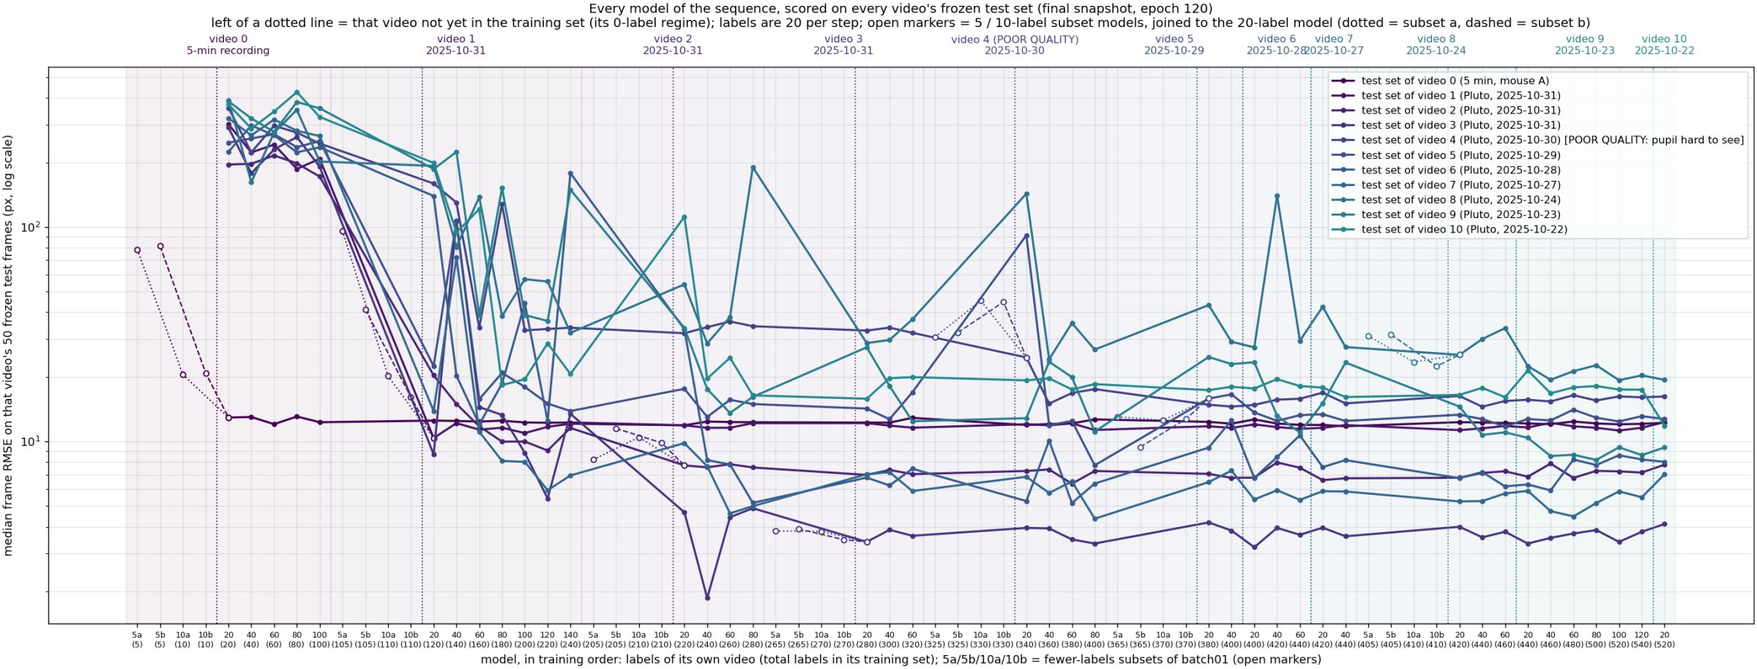
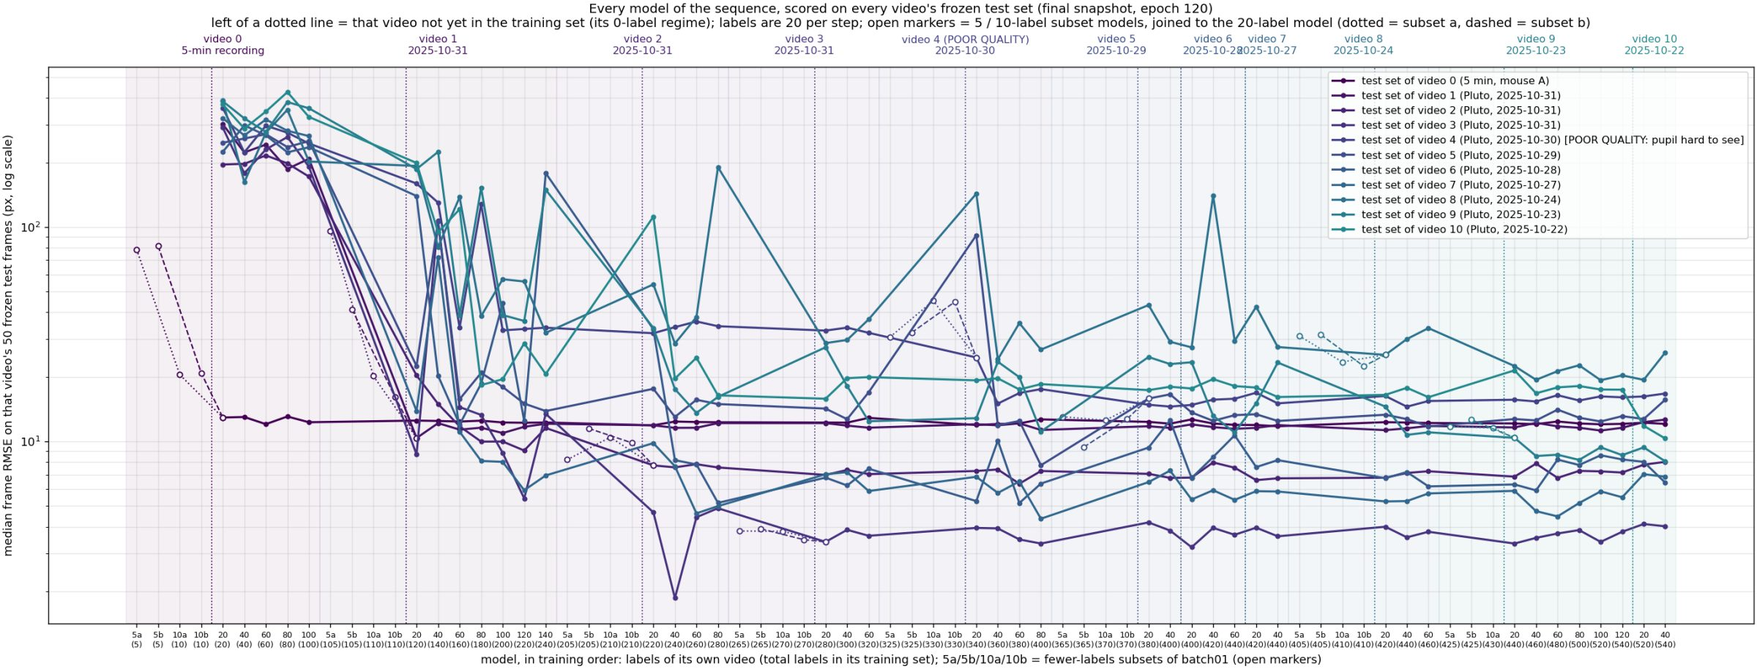
Fewer-labels study extended to video 9: 5 labels 11.7 / 12.6 px, 10 labels 11.6 / 11.1 px (0 labels 23.41, 20 labels 10.39)
Claude-Session: https://claude.ai/code/session_017MK5SWBFFQAu8ejFk1z7fh

diff --git a/report/index.html b/report/index.html
@@ -480,7 +480,7 @@ CHANGELOG.md                         one row per tag
 </div>
 
 <script>
-const DATA = {"scaling": [{"n": 20, "rmse": 38.3}, {"n": 50, "rmse": 41.9}, {"n": 100, "rmse": 55.9}], "batch": [{"batch": 2, "rmse": 21.07, "val_loss": 0.01107, "conf": 375}, {"batch": 4, "rmse": 22.28, "val_loss": 0.01112, "conf": 280}, {"batch": 8, "rmse": 23.61, "val_loss": 0.01186, "conf": 131}, {"batch": 16, "rmse": 21.37, "val_loss": 0.01136, "conf": 111}], "model": [{"model": "ResNet-50", "rmse": 20.1, "val_loss": 0.01107, "conf": 514, "hours": 1.73}, {"model": "HRNet-W32", "rmse": 21.1, "val_loss": 0.01107, "conf": 375, "hours": 3.69}, {"model": "HRNet-W48", "rmse": 24.7, "val_loss": 0.01114, "conf": 99, "hours": 6.61}, {"model": "CSPNeXt-S", "rmse": 35.4, "val_loss": 0.011, "conf": 75, "hours": 0.6}, {"model": "HRNet-W18", "rmse": 47.9, "val_loss": 0.01099, "conf": 121, "hours": 2.44}], "al": {"fitting": [{"n": 80, "rmse": 16.77}, {"n": 100, "rmse": 16.52}, {"n": 120, "rmse": 17.41}, {"n": 140, "rmse": 16.88}, {"n": 160, "rmse": 17.15}, {"n": 180, "rmse": 16.89}, {"n": 200, "rmse": 17.2}, {"n": 220, "rmse": 17.08}, {"n": 240, "rmse": 17.5}, {"n": 260, "rmse": 16.85}, {"n": 280, "rmse": 16.87}, {"n": 300, "rmse": 16.97}], "jump": [{"n": 80, "rmse": 16.77}, {"n": 100, "rmse": 16.71}, {"n": 120, "rmse": 16.25}, {"n": 140, "rmse": 15.81}, {"n": 160, "rmse": 16.5}, {"n": 180, "rmse": 16.42}, {"n": 200, "rmse": 16.33}, {"n": 220, "rmse": 15.88}, {"n": 240, "rmse": 16.41}, {"n": 260, "rmse": 17.01}, {"n": 280, "rmse": 16.5}, {"n": 300, "rmse": 16.6}], "uncertain": [{"n": 80, "rmse": 16.77}, {"n": 100, "rmse": 17.54}, {"n": 120, "rmse": 17.06}, {"n": 140, "rmse": 16.71}, {"n": 160, "rmse": 16.8}, {"n": 180, "rmse": 16.39}, {"n": 200, "rmse": 16.57}, {"n": 220, "rmse": 16.57}, {"n": 240, "rmse": 16.56}, {"n": 260, "rmse": 16.54}, {"n": 280, "rmse": 16.91}, {"n": 300, "rmse": 16.62}]}, "al_range": [15.81, 17.54], "scale": [{"n": 0, "rmse": 185.18, "p90": 249.81, "fail": 88.1, "conf": 43}, {"n": 20, "rmse": 13.83, "p90": 44.6, "fail": 10.2, "conf": 62}, {"n": 40, "rmse": 12.04, "p90": 27.58, "fail": 8.5, "conf": 70}, {"n": 60, "rmse": 10.41, "p90": 97.56, "fail": 13.6, "conf": 83}, {"n": 80, "rmse": 10.12, "p90": 28.18, "fail": 5.1, "conf": 91}, {"n": 100, "rmse": 10.72, "p90": 26.06, "fail": 6.8, "conf": 87}], "scale_seed2": [{"n": 20, "rmse": 11.67, "p90": 26.32}, {"n": 40, "rmse": 11.79, "p90": 93.47}, {"n": 60, "rmse": 10.53, "p90": 46.33}], "scale_default_rule": [{"n": 20, "rmse": 12.08, "rule": "best validation mAP -> epoch 70"}, {"n": 40, "rmse": 101.74, "rule": "best validation mAP -> epoch 20 (undertrained; pupil_left fails on 53% of test frames)"}, {"n": 60, "rmse": 12.53, "rule": "best validation mAP (best-30)"}, {"n": 80, "rmse": 10.56, "rule": "best validation mAP -> epoch 50 (best-50)"}], "flagged": [{"n": 0, "pct": 77.8, "frames": 44484}, {"n": 20, "pct": 26.4, "frames": 15064}, {"n": 40, "pct": 21.4, "frames": 12254}, {"n": 60, "pct": 19.3, "frames": 11051}, {"n": 80, "pct": 15.0, "frames": 8555}], "n_test": 59, "blink_example": {"t": [231.9, 231.917, 231.933, 231.95, 231.967, 231.983, 232.0, 232.017, 232.033, 232.05, 232.067, 232.083, 232.1, 232.117, 232.133, 232.15, 232.167, 232.183, 232.2, 232.217, 232.233, 232.25, 232.267, 232.283, 232.3, 232.317, 232.333, 232.35, 232.367, 232.383, 232.4, 232.417, 232.433, 232.45, 232.467, 232.483, 232.5, 232.517, 232.533, 232.55, 232.567, 232.583, 232.6, 232.617, 232.633, 232.65, 232.667, 232.683, 232.7, 232.717, 232.733, 232.75, 232.767, 232.783, 232.8, 232.817, 232.833, 232.85, 232.867, 232.883, 232.9, 232.917, 232.933, 232.95, 232.967, 232.983, 233.0, 233.017, 233.033, 233.05, 233.067, 233.083, 233.1, 233.117, 233.133, 233.15, 233.167, 233.183, 233.2, 233.217, 233.233, 233.25, 233.267, 233.283, 233.3, 233.317, 233.333, 233.35, 233.367, 233.383, 233.4, 233.417, 233.433, 233.45, 233.467, 233.483, 233.5, 233.517, 233.533, 233.55, 233.567, 233.583, 233.6, 233.617, 233.633, 233.65, 233.667, 233.683, 233.7, 233.717, 233.733, 233.75, 233.767, 233.783, 233.8, 233.817, 233.833, 233.85, 233.867, 233.883, 233.9, 233.917, 233.933, 233.95, 233.967, 233.983, 234.0, 234.017, 234.033, 234.05, 234.067, 234.083, 234.1, 234.117, 234.133, 234.15, 234.167, 234.183, 234.2, 234.217, 234.233, 234.25, 234.267, 234.283, 234.3, 234.317, 234.333, 234.35, 234.367, 234.383, 234.4, 234.417, 234.433, 234.45, 234.467, 234.483, 234.5, 234.517, 234.533, 234.55, 234.567, 234.583, 234.6, 234.617, 234.633, 234.65, 234.667, 234.683, 234.7, 234.717, 234.733, 234.75, 234.767, 234.783, 234.8, 234.817, 234.833, 234.85, 234.867, 234.883], "raw": [69122, 68737, 69304, 68804, 67240, 67087, 63331, 61095, 59527, 59727, 59834, 59985, 61109, 61980, 62674, 62251, 62329, 62951, 62415, 61634, 61648, 61958, 62098, 63234, 62164, 61834, 61306, 61284, 61891, 63438, 61913, 61934, 62653, 62387, 62651, 63159, 63460, 62820, 63810, 63560, 63224, 63780, 63776, 63873, 64025, 64117, 63813, 65148, 65371, 64381, 64022, 64318, 64549, 64117, 63498, 63544, 63076, 64466, 63245, 63775, 64184, 63404, 64122, 64535, 64585, 63077, 64186, 63491, 62686, 60629, 60235, 59795, 63163, 61228, 60564, 60875, 58323, 56384, 56374, 56186, 54493, 54271, 52051, 46264, 42908, 40282, 38832, 39063, 35719, 36195, 36742, 35888, 35195, 35063, 37152, 43149, 43512, 48313, 50892, 53096, 53190, 53636, 55021, 55199, 55074, 56411, 56076, 57539, 56558, 57202, 56931, 58422, 59361, 59370, 59584, 58834, 59436, 59366, 60573, 59866, 60701, 60681, 60372, 60873, 61213, 61841, 61221, 61432, 62227, 61981, 61810, 61109, 62406, 62077, 62183, 62825, 62407, 63271, 65273, 64723, 63604, 63776, 64326, 64068, 63156, 63628, 63945, 62811, 63131, 63499, 62969, 64045, 63652, 63372, 63393, 63020, 63316, 63853, 63513, 63692, 63092, 63246, 62494, 63162, 63507, 63545, 63167, 63109, 63071, 63942, 63209, 63484, 63501, 62952, 62230, 62982, 63231, 62882, 63056, 62869], "filled": [69122, 68737, 69304, 68804, 67240, 67087, 63331, 61095, 59527, 59727, 59834, 59985, 61109, 61980, 62674, 62251, 62329, 62951, 62415, 61634, 61648, 61958, 62098, 63234, 62164, 61834, 61306, 61284, 61891, 63438, 61913, 61934, 62653, 62387, 62651, 63159, 63460, 62820, 63810, 63560, 63224, 63780, 63776, 63873, 64025, 64117, 63813, 65148, 65371, 64381, 64022, 64318, 64549, 64117, 63498, 63544, 63076, 64466, 63245, 63775, 64184, 63404, 64122, 64535, 64585, 63077, 64186, 63491, 62686, 60629, 60235, 60215, 60194, 60173, 60152, 60131, 60110, 60090, 60069, 60048, 60027, 60006, 59986, 59965, 59944, 59923, 59902, 59881, 59861, 59840, 59819, 59798, 59777, 59757, 59736, 59715, 59694, 59673, 59652, 59632, 59611, 59590, 59569, 59548, 59528, 59507, 59486, 59465, 59444, 59423, 59403, 59382, 59361, 59370, 59584, 58834, 59436, 59366, 60573, 59866, 60701, 60681, 60372, 60873, 61213, 61841, 61221, 61432, 62227, 61981, 61810, 61109, 62406, 62077, 62183, 62825, 62407, 62444, 62481, 62517, 62554, 62591, 62627, 62664, 62701, 62738, 62774, 62811, 63131, 63499, 62969, 64045, 63652, 63372, 63393, 63020, 63316, 63853, 63513, 63692, 63092, 63246, 62494, 63162, 63507, 63545, 63167, 63109, 63071, 63942, 63209, 63484, 63501, 62952, 62230, 62982, 63231, 62882, 63056, 62869], "open": [0.983, 0.992, 0.997, 1.009, 1.008, 0.988, 0.991, 0.98, 0.984, 0.996, 0.989, 0.996, 1.001, 1.013, 1.017, 1.02, 1.018, 1.024, 1.019, 1.024, 1.021, 1.02, 1.022, 1.013, 1.012, 1.014, 1.004, 1.01, 1.015, 1.026, 1.011, 1.027, 1.027, 1.03, 1.027, 1.031, 1.036, 1.03, 1.028, 1.029, 1.031, 1.029, 1.025, 1.031, 1.031, 1.037, 1.033, 1.03, 1.034, 1.04, 1.038, 1.042, 1.036, 1.035, 1.031, 1.033, 1.029, 1.037, 1.027, 1.03, 1.022, 1.032, 1.032, 1.029, 1.011, 1.003, 0.999, 1.002, 0.998, 0.986, 0.98, 0.979, 0.97, 0.969, 0.947, 0.936, 0.911, 0.928, 0.931, 0.927, 0.92, 0.916, 0.871, 0.839, 0.819, 0.792, 0.751, 0.752, 0.738, 0.76, 0.779, 0.677, 0.661, 0.673, 0.667, 0.706, 0.756, 0.787, 0.919, 0.89, 0.907, 0.917, 0.92, 0.929, 0.93, 0.952, 0.952, 0.95, 0.95, 0.957, 0.958, 0.968, 0.967, 0.968, 0.966, 0.972, 0.967, 0.97, 0.985, 0.981, 0.983, 0.989, 0.99, 0.99, 0.99, 0.983, 0.994, 0.988, 0.997, 0.994, 0.996, 1.003, 0.994, 0.998, 0.996, 1.001, 0.997, 0.997, 1.0, 0.999, 1.001, 0.99, 0.997, 1.009, 0.997, 1.007, 0.998, 1.004, 1.004, 0.997, 1.008, 0.999, 1.0, 0.998, 0.998, 0.999, 1.0, 1.001, 1.0, 1.004, 0.999, 0.995, 0.999, 0.996, 1.0, 1.001, 1.0, 0.997, 1.003, 0.994, 0.999, 1.001, 1.003, 1.002, 0.999, 0.999, 0.999, 1.001, 1.001, 0.999], "bad": [false, false, false, false, false, false, false, false, false, false, false, false, false, false, false, false, false, false, false, false, false, false, false, false, false, false, false, false, false, false, false, false, false, false, false, false, false, false, false, false, false, false, false, false, false, false, false, false, false, false, false, false, false, false, false, false, false, false, false, false, false, false, false, false, false, false, false, false, false, false, false, true, true, true, true, true, true, true, true, true, true, true, true, true, true, true, true, true, true, true, true, true, true, true, true, true, true, true, true, true, true, true, true, true, true, true, true, true, true, true, true, true, false, false, false, false, false, false, false, false, false, false, false, false, false, false, false, false, false, false, false, false, false, false, false, false, false, true, true, true, true, true, true, true, true, true, true, false, false, false, false, false, false, false, false, false, false, false, false, false, false, false, false, false, false, false, false, false, false, false, false, false, false, false, false, false, false, false, false, false]}, "blink_stats": {"frames": 14400, "untrusted": 1287, "runs": 86, "longest_s": 0.9}, "keypoints_px": {"pupil_top": [51.4, 27.7], "pupil_bottom": [52.5, 71.6], "pupil_left": [29.4, 40.1], "pupil_right": [74.2, 44.9], "eyelid_top": [52.2, 21.7], "eyelid_bottom": [52.5, 78.5], "eye_nasal_corner": [21.5, 35.3], "eye_temporal_corner": [79.4, 45.1]}, "blink_strip_t": [232.77, 233.43, 234.18], "videos": [{"video": 0, "unit": "0_first5minvedio", "mouse": "mouse A", "date": "5-min", "final": true, "plateau_n": 60, "plateau_px": 12.04, "zero": null, "steps": [{"n": 20, "rmse": 12.93, "p90": 23.9, "fail": 4, "conf": 69}, {"n": 40, "rmse": 13.0, "p90": 18.6, "fail": 2, "conf": 81}, {"n": 60, "rmse": 12.04, "p90": 17.0, "fail": 0, "conf": 89}, {"n": 80, "rmse": 13.07, "p90": 19.2, "fail": 2, "conf": 90}, {"n": 100, "rmse": 12.29, "p90": 17.8, "fail": 0, "conf": 93}], "subsets": [{"n": 5, "rmse": 78.53, "p90": 273.8, "fail": 70, "conf": 13, "tag": "05a"}, {"n": 5, "rmse": 81.5, "p90": 144.6, "fail": 72, "conf": 16, "tag": "05b"}, {"n": 10, "rmse": 20.48, "p90": 189.9, "fail": 14, "conf": 44, "tag": "10a"}, {"n": 10, "rmse": 20.84, "p90": 47.1, "fail": 8, "conf": 43, "tag": "10b"}], "jump": [{"n": 20, "pct": 6.8}, {"n": 40, "pct": 3.5}, {"n": 60, "pct": 2.1}, {"n": 80, "pct": 2.8}, {"n": 100, "pct": 2.1}], "labeled": 100, "carried": 100}, {"video": 1, "unit": "1_20251031_Pluto_spont_1", "mouse": "Pluto", "date": "2025-10-31", "final": true, "plateau_n": 20, "plateau_px": 10.37, "zero": 208.23, "steps": [{"n": 20, "rmse": 10.37, "p90": 21.6, "fail": 4, "conf": 59}, {"n": 40, "rmse": 12.17, "p90": 20.3, "fail": 0, "conf": 75}, {"n": 60, "rmse": 11.35, "p90": 19.7, "fail": 2, "conf": 74}, {"n": 80, "rmse": 11.59, "p90": 19.8, "fail": 0, "conf": 82}, {"n": 100, "rmse": 10.94, "p90": 19.3, "fail": 0, "conf": 89}, {"n": 120, "rmse": 11.7, "p90": 18.4, "fail": 0, "conf": 95}, {"n": 140, "rmse": 12.09, "p90": 18.7, "fail": 0, "conf": 89}], "subsets": [{"n": 5, "rmse": 96.02, "p90": 123.4, "fail": 56, "conf": 34, "tag": "05a"}, {"n": 5, "rmse": 41.38, "p90": 221.9, "fail": 48, "conf": 15, "tag": "05b"}, {"n": 10, "rmse": 20.17, "p90": 123.5, "fail": 42, "conf": 67, "tag": "10a"}, {"n": 10, "rmse": 16.12, "p90": 168.5, "fail": 34, "conf": 39, "tag": "10b"}], "jump": [{"n": 20, "pct": 21.1}, {"n": 40, "pct": 10.9}, {"n": 60, "pct": 6.2}, {"n": 80, "pct": 6.2}, {"n": 100, "pct": 5.5}, {"n": 120, "pct": 4.4}, {"n": 140, "pct": 4.6}], "labeled": 140, "carried": 100}, {"video": 2, "unit": "2_20251031_Pluto_spont_3", "mouse": "Pluto", "date": "2025-10-31", "final": true, "plateau_n": 20, "plateau_px": 7.73, "zero": 9.99, "steps": [{"n": 20, "rmse": 7.73, "p90": 26.4, "fail": 8, "conf": 85}, {"n": 40, "rmse": 7.57, "p90": 25.1, "fail": 2, "conf": 89}, {"n": 60, "rmse": 7.83, "p90": 22.8, "fail": 8, "conf": 90}, {"n": 80, "rmse": 7.56, "p90": 19.7, "fail": 2, "conf": 92}], "subsets": [{"n": 5, "rmse": 8.22, "p90": 48.0, "fail": 10, "conf": 80, "tag": "05a"}, {"n": 5, "rmse": 11.5, "p90": 96.6, "fail": 18, "conf": 81, "tag": "05b"}, {"n": 10, "rmse": 10.46, "p90": 85.2, "fail": 22, "conf": 84, "tag": "10a"}, {"n": 10, "rmse": 9.85, "p90": 78.4, "fail": 12, "conf": 86, "tag": "10b"}], "jump": [{"n": 20, "pct": 9.3}, {"n": 40, "pct": 5.8}, {"n": 60, "pct": 5.7}], "labeled": 80, "carried": 60}, {"video": 3, "unit": "3_20251031_Pluto_spont_2", "mouse": "Pluto", "date": "2025-10-31", "final": true, "plateau_n": 20, "plateau_px": 3.4, "zero": 4.43, "steps": [{"n": 20, "rmse": 3.4, "p90": 21.3, "fail": 0, "conf": 96}, {"n": 40, "rmse": 3.87, "p90": 15.8, "fail": 0, "conf": 95}, {"n": 60, "rmse": 3.63, "p90": 10.2, "fail": 0, "conf": 96}], "subsets": [{"n": 5, "rmse": 3.82, "p90": 22.9, "fail": 0, "conf": 94, "tag": "05a"}, {"n": 5, "rmse": 3.91, "p90": 15.3, "fail": 0, "conf": 92, "tag": "05b"}, {"n": 10, "rmse": 3.81, "p90": 21.7, "fail": 0, "conf": 94, "tag": "10a"}, {"n": 10, "rmse": 3.48, "p90": 22.5, "fail": 0, "conf": 92, "tag": "10b"}], "jump": [{"n": 20, "pct": 6.4}, {"n": 40, "pct": 5.8}, {"n": 60, "pct": 6.8}], "labeled": 60, "carried": 60}, {"video": 4, "unit": "4_20251030_Pluto_spont_1", "mouse": "Pluto", "date": "2025-10-30", "final": true, "plateau_n": 40, "plateau_px": 15.01, "zero": 32.11, "steps": [{"n": 20, "rmse": 24.64, "p90": 45.1, "fail": 6, "conf": 72}, {"n": 40, "rmse": 15.01, "p90": 24.1, "fail": 2, "conf": 90}, {"n": 60, "rmse": 16.82, "p90": 25.1, "fail": 2, "conf": 79}, {"n": 80, "rmse": 17.54, "p90": 44.7, "fail": 8, "conf": 86}], "subsets": [{"n": 5, "rmse": 30.74, "p90": 50.1, "fail": 10, "conf": 85, "tag": "05a"}, {"n": 5, "rmse": 32.21, "p90": 52.0, "fail": 14, "conf": 83, "tag": "05b"}, {"n": 10, "rmse": 45.31, "p90": 62.4, "fail": 42, "conf": 81, "tag": "10a"}, {"n": 10, "rmse": 44.75, "p90": 61.5, "fail": 32, "conf": 80, "tag": "10b"}], "jump": [{"n": 20, "pct": 30.9}, {"n": 40, "pct": 12.5}, {"n": 60, "pct": 14.1}], "labeled": 80, "carried": 40}, {"video": 5, "unit": "5_20251029_Pluto_spont_1", "mouse": "Pluto", "date": "2025-10-29", "final": true, "plateau_n": 20, "plateau_px": 15.85, "zero": 11.9, "steps": [{"n": 20, "rmse": 15.85, "p90": 20.2, "fail": 0, "conf": 90}, {"n": 40, "rmse": 16.58, "p90": 22.0, "fail": 0, "conf": 91}], "subsets": [{"n": 5, "rmse": 13.04, "p90": 19.9, "fail": 0, "conf": 79, "tag": "05a"}, {"n": 5, "rmse": 9.42, "p90": 13.2, "fail": 4, "conf": 78, "tag": "05b"}, {"n": 10, "rmse": 12.56, "p90": 18.1, "fail": 0, "conf": 90, "tag": "10a"}, {"n": 10, "rmse": 12.73, "p90": 19.6, "fail": 4, "conf": 80, "tag": "10b"}], "jump": [{"n": 20, "pct": 7.6}], "labeled": 40, "carried": 20}, {"video": 6, "unit": "6_20251028_Pluto_spont_1", "mouse": "Pluto", "date": "2025-10-28", "final": true, "plateau_n": 20, "plateau_px": 6.75, "zero": 9.36, "steps": [{"n": 20, "rmse": 6.75, "p90": 11.2, "fail": 0, "conf": 83}, {"n": 40, "rmse": 8.46, "p90": 11.8, "fail": 0, "conf": 90}, {"n": 60, "rmse": 10.68, "p90": 14.9, "fail": 2, "conf": 82}], "subsets": [], "jump": [{"n": 20, "pct": 11.9}, {"n": 40, "pct": 8.7}], "labeled": 60, "carried": 20}, {"video": 7, "unit": "7_20251027_Pluto_spont1", "mouse": "Pluto", "date": "2025-10-27", "final": true, "plateau_n": 0, "plateau_px": 5.36, "zero": 5.36, "steps": [{"n": 20, "rmse": 5.86, "p90": 7.6, "fail": 0, "conf": 100}, {"n": 40, "rmse": 5.84, "p90": 8.2, "fail": 0, "conf": 100}], "subsets": [], "jump": [{"n": 20, "pct": 1.6}], "labeled": 40, "carried": 0}, {"video": 8, "unit": "8_20251024_Pluto_spont1", "mouse": "Pluto", "date": "2025-10-24", "final": true, "plateau_n": 20, "plateau_px": 25.34, "zero": 27.46, "steps": [{"n": 20, "rmse": 25.34, "p90": 50.6, "fail": 14, "conf": 68}, {"n": 40, "rmse": 30.03, "p90": 50.4, "fail": 12, "conf": 89}, {"n": 60, "rmse": 33.77, "p90": 52.0, "fail": 16, "conf": 84}], "subsets": [{"n": 5, "rmse": 31.05, "p90": 192.4, "fail": 30, "conf": 68, "tag": "05a"}, {"n": 5, "rmse": 31.48, "p90": 196.4, "fail": 28, "conf": 59, "tag": "05b"}, {"n": 10, "rmse": 23.48, "p90": 50.8, "fail": 12, "conf": 71, "tag": "10a"}, {"n": 10, "rmse": 22.42, "p90": 45.8, "fail": 6, "conf": 74, "tag": "10b"}], "jump": [{"n": 20, "pct": 17.0}, {"n": 40, "pct": 15.3}], "labeled": 60, "carried": 20}, {"video": 9, "unit": "9_20251023_Pluto1", "mouse": "Pluto", "date": "2025-10-23", "final": true, "plateau_n": 80, "plateau_px": 8.2, "zero": 23.41, "steps": [{"n": 20, "rmse": 10.39, "p90": 24.3, "fail": 8, "conf": 55}, {"n": 40, "rmse": 8.55, "p90": 19.6, "fail": 0, "conf": 86}, {"n": 60, "rmse": 8.67, "p90": 14.8, "fail": 0, "conf": 78}, {"n": 80, "rmse": 8.2, "p90": 14.8, "fail": 0, "conf": 86}, {"n": 100, "rmse": 9.39, "p90": 15.5, "fail": 0, "conf": 83}, {"n": 120, "rmse": 8.63, "p90": 15.8, "fail": 0, "conf": 90}], "subsets": [{"n": 5, "rmse": 11.74, "p90": 23.2, "fail": 6, "conf": 69, "tag": "05a"}, {"n": 5, "rmse": 12.62, "p90": 20.9, "fail": 8, "conf": 80, "tag": "05b"}, {"n": 10, "rmse": 11.55, "p90": 19.1, "fail": 0, "conf": 62, "tag": "10a"}], "jump": [{"n": 20, "pct": 18.1}, {"n": 40, "pct": 11.3}, {"n": 60, "pct": 10.1}, {"n": 80, "pct": 10.7}, {"n": 100, "pct": 9.1}, {"n": 120, "pct": 8.3}], "labeled": 120, "carried": 80}, {"video": 10, "unit": "10_20251022_Pluto1", "mouse": "Pluto", "date": "2025-10-22", "final": false, "plateau_n": 40, "plateau_px": 10.32, "zero": 18.13, "steps": [{"n": 20, "rmse": 11.83, "p90": 27.7, "fail": 2, "conf": 72}, {"n": 40, "rmse": 10.32, "p90": 26.1, "fail": 4, "conf": 92}], "subsets": [], "jump": [{"n": 20, "pct": 15.8}], "labeled": 40, "carried": null}], "area": [{"video": "0 (mouse A)", "e3": 6.5, "e4": 2.2, "anchored": false}, {"video": "1 (10-31)", "e3": 6.7, "e4": 6.2, "anchored": false}, {"video": "2 (10-31)", "e3": 3.1, "e4": 4.4, "anchored": false}, {"video": "3 (10-31)", "e3": 12.8, "e4": 3.2, "anchored": false}, {"video": "4 (10-30, poor)", "e3": 16.9, "e4": 13.5, "anchored": false}, {"video": "5 (10-29)", "e3": 2.5, "e4": 1.9, "anchored": true}, {"video": "6 (10-28)", "e3": 9.9, "e4": 1.6, "anchored": true}, {"video": "7 (10-27)", "e3": 3.3, "e4": 0.2, "anchored": true}], "blink3": {"closed": 16, "open": 687, "auc": {"min_conf": 1.0, "open_rel": 0.94, "centre_off": 0.92, "lid_rel": 0.9, "aspect": 0.36}, "hit": 1.0, "false_alarm": 0.55}, "coupling": [0.69, 0.94], "built": "2026-10-02", "label_px": {"pupil_top": [66.7, 44.4], "pupil_bottom": [66.2, 79.4], "pupil_left": [50.1, 60.1], "pupil_right": [81.1, 63.6], "eyelid_top": [67.6, 47.1], "eyelid_bottom": [65.9, 83.7], "eye_nasal_corner": [39.4, 51.3], "eye_temporal_corner": [90.4, 65.2]}};
+const DATA = {"scaling": [{"n": 20, "rmse": 38.3}, {"n": 50, "rmse": 41.9}, {"n": 100, "rmse": 55.9}], "batch": [{"batch": 2, "rmse": 21.07, "val_loss": 0.01107, "conf": 375}, {"batch": 4, "rmse": 22.28, "val_loss": 0.01112, "conf": 280}, {"batch": 8, "rmse": 23.61, "val_loss": 0.01186, "conf": 131}, {"batch": 16, "rmse": 21.37, "val_loss": 0.01136, "conf": 111}], "model": [{"model": "ResNet-50", "rmse": 20.1, "val_loss": 0.01107, "conf": 514, "hours": 1.73}, {"model": "HRNet-W32", "rmse": 21.1, "val_loss": 0.01107, "conf": 375, "hours": 3.69}, {"model": "HRNet-W48", "rmse": 24.7, "val_loss": 0.01114, "conf": 99, "hours": 6.61}, {"model": "CSPNeXt-S", "rmse": 35.4, "val_loss": 0.011, "conf": 75, "hours": 0.6}, {"model": "HRNet-W18", "rmse": 47.9, "val_loss": 0.01099, "conf": 121, "hours": 2.44}], "al": {"fitting": [{"n": 80, "rmse": 16.77}, {"n": 100, "rmse": 16.52}, {"n": 120, "rmse": 17.41}, {"n": 140, "rmse": 16.88}, {"n": 160, "rmse": 17.15}, {"n": 180, "rmse": 16.89}, {"n": 200, "rmse": 17.2}, {"n": 220, "rmse": 17.08}, {"n": 240, "rmse": 17.5}, {"n": 260, "rmse": 16.85}, {"n": 280, "rmse": 16.87}, {"n": 300, "rmse": 16.97}], "jump": [{"n": 80, "rmse": 16.77}, {"n": 100, "rmse": 16.71}, {"n": 120, "rmse": 16.25}, {"n": 140, "rmse": 15.81}, {"n": 160, "rmse": 16.5}, {"n": 180, "rmse": 16.42}, {"n": 200, "rmse": 16.33}, {"n": 220, "rmse": 15.88}, {"n": 240, "rmse": 16.41}, {"n": 260, "rmse": 17.01}, {"n": 280, "rmse": 16.5}, {"n": 300, "rmse": 16.6}], "uncertain": [{"n": 80, "rmse": 16.77}, {"n": 100, "rmse": 17.54}, {"n": 120, "rmse": 17.06}, {"n": 140, "rmse": 16.71}, {"n": 160, "rmse": 16.8}, {"n": 180, "rmse": 16.39}, {"n": 200, "rmse": 16.57}, {"n": 220, "rmse": 16.57}, {"n": 240, "rmse": 16.56}, {"n": 260, "rmse": 16.54}, {"n": 280, "rmse": 16.91}, {"n": 300, "rmse": 16.62}]}, "al_range": [15.81, 17.54], "scale": [{"n": 0, "rmse": 185.18, "p90": 249.81, "fail": 88.1, "conf": 43}, {"n": 20, "rmse": 13.83, "p90": 44.6, "fail": 10.2, "conf": 62}, {"n": 40, "rmse": 12.04, "p90": 27.58, "fail": 8.5, "conf": 70}, {"n": 60, "rmse": 10.41, "p90": 97.56, "fail": 13.6, "conf": 83}, {"n": 80, "rmse": 10.12, "p90": 28.18, "fail": 5.1, "conf": 91}, {"n": 100, "rmse": 10.72, "p90": 26.06, "fail": 6.8, "conf": 87}], "scale_seed2": [{"n": 20, "rmse": 11.67, "p90": 26.32}, {"n": 40, "rmse": 11.79, "p90": 93.47}, {"n": 60, "rmse": 10.53, "p90": 46.33}], "scale_default_rule": [{"n": 20, "rmse": 12.08, "rule": "best validation mAP -> epoch 70"}, {"n": 40, "rmse": 101.74, "rule": "best validation mAP -> epoch 20 (undertrained; pupil_left fails on 53% of test frames)"}, {"n": 60, "rmse": 12.53, "rule": "best validation mAP (best-30)"}, {"n": 80, "rmse": 10.56, "rule": "best validation mAP -> epoch 50 (best-50)"}], "flagged": [{"n": 0, "pct": 77.8, "frames": 44484}, {"n": 20, "pct": 26.4, "frames": 15064}, {"n": 40, "pct": 21.4, "frames": 12254}, {"n": 60, "pct": 19.3, "frames": 11051}, {"n": 80, "pct": 15.0, "frames": 8555}], "n_test": 59, "blink_example": {"t": [231.9, 231.917, 231.933, 231.95, 231.967, 231.983, 232.0, 232.017, 232.033, 232.05, 232.067, 232.083, 232.1, 232.117, 232.133, 232.15, 232.167, 232.183, 232.2, 232.217, 232.233, 232.25, 232.267, 232.283, 232.3, 232.317, 232.333, 232.35, 232.367, 232.383, 232.4, 232.417, 232.433, 232.45, 232.467, 232.483, 232.5, 232.517, 232.533, 232.55, 232.567, 232.583, 232.6, 232.617, 232.633, 232.65, 232.667, 232.683, 232.7, 232.717, 232.733, 232.75, 232.767, 232.783, 232.8, 232.817, 232.833, 232.85, 232.867, 232.883, 232.9, 232.917, 232.933, 232.95, 232.967, 232.983, 233.0, 233.017, 233.033, 233.05, 233.067, 233.083, 233.1, 233.117, 233.133, 233.15, 233.167, 233.183, 233.2, 233.217, 233.233, 233.25, 233.267, 233.283, 233.3, 233.317, 233.333, 233.35, 233.367, 233.383, 233.4, 233.417, 233.433, 233.45, 233.467, 233.483, 233.5, 233.517, 233.533, 233.55, 233.567, 233.583, 233.6, 233.617, 233.633, 233.65, 233.667, 233.683, 233.7, 233.717, 233.733, 233.75, 233.767, 233.783, 233.8, 233.817, 233.833, 233.85, 233.867, 233.883, 233.9, 233.917, 233.933, 233.95, 233.967, 233.983, 234.0, 234.017, 234.033, 234.05, 234.067, 234.083, 234.1, 234.117, 234.133, 234.15, 234.167, 234.183, 234.2, 234.217, 234.233, 234.25, 234.267, 234.283, 234.3, 234.317, 234.333, 234.35, 234.367, 234.383, 234.4, 234.417, 234.433, 234.45, 234.467, 234.483, 234.5, 234.517, 234.533, 234.55, 234.567, 234.583, 234.6, 234.617, 234.633, 234.65, 234.667, 234.683, 234.7, 234.717, 234.733, 234.75, 234.767, 234.783, 234.8, 234.817, 234.833, 234.85, 234.867, 234.883], "raw": [69122, 68737, 69304, 68804, 67240, 67087, 63331, 61095, 59527, 59727, 59834, 59985, 61109, 61980, 62674, 62251, 62329, 62951, 62415, 61634, 61648, 61958, 62098, 63234, 62164, 61834, 61306, 61284, 61891, 63438, 61913, 61934, 62653, 62387, 62651, 63159, 63460, 62820, 63810, 63560, 63224, 63780, 63776, 63873, 64025, 64117, 63813, 65148, 65371, 64381, 64022, 64318, 64549, 64117, 63498, 63544, 63076, 64466, 63245, 63775, 64184, 63404, 64122, 64535, 64585, 63077, 64186, 63491, 62686, 60629, 60235, 59795, 63163, 61228, 60564, 60875, 58323, 56384, 56374, 56186, 54493, 54271, 52051, 46264, 42908, 40282, 38832, 39063, 35719, 36195, 36742, 35888, 35195, 35063, 37152, 43149, 43512, 48313, 50892, 53096, 53190, 53636, 55021, 55199, 55074, 56411, 56076, 57539, 56558, 57202, 56931, 58422, 59361, 59370, 59584, 58834, 59436, 59366, 60573, 59866, 60701, 60681, 60372, 60873, 61213, 61841, 61221, 61432, 62227, 61981, 61810, 61109, 62406, 62077, 62183, 62825, 62407, 63271, 65273, 64723, 63604, 63776, 64326, 64068, 63156, 63628, 63945, 62811, 63131, 63499, 62969, 64045, 63652, 63372, 63393, 63020, 63316, 63853, 63513, 63692, 63092, 63246, 62494, 63162, 63507, 63545, 63167, 63109, 63071, 63942, 63209, 63484, 63501, 62952, 62230, 62982, 63231, 62882, 63056, 62869], "filled": [69122, 68737, 69304, 68804, 67240, 67087, 63331, 61095, 59527, 59727, 59834, 59985, 61109, 61980, 62674, 62251, 62329, 62951, 62415, 61634, 61648, 61958, 62098, 63234, 62164, 61834, 61306, 61284, 61891, 63438, 61913, 61934, 62653, 62387, 62651, 63159, 63460, 62820, 63810, 63560, 63224, 63780, 63776, 63873, 64025, 64117, 63813, 65148, 65371, 64381, 64022, 64318, 64549, 64117, 63498, 63544, 63076, 64466, 63245, 63775, 64184, 63404, 64122, 64535, 64585, 63077, 64186, 63491, 62686, 60629, 60235, 60215, 60194, 60173, 60152, 60131, 60110, 60090, 60069, 60048, 60027, 60006, 59986, 59965, 59944, 59923, 59902, 59881, 59861, 59840, 59819, 59798, 59777, 59757, 59736, 59715, 59694, 59673, 59652, 59632, 59611, 59590, 59569, 59548, 59528, 59507, 59486, 59465, 59444, 59423, 59403, 59382, 59361, 59370, 59584, 58834, 59436, 59366, 60573, 59866, 60701, 60681, 60372, 60873, 61213, 61841, 61221, 61432, 62227, 61981, 61810, 61109, 62406, 62077, 62183, 62825, 62407, 62444, 62481, 62517, 62554, 62591, 62627, 62664, 62701, 62738, 62774, 62811, 63131, 63499, 62969, 64045, 63652, 63372, 63393, 63020, 63316, 63853, 63513, 63692, 63092, 63246, 62494, 63162, 63507, 63545, 63167, 63109, 63071, 63942, 63209, 63484, 63501, 62952, 62230, 62982, 63231, 62882, 63056, 62869], "open": [0.983, 0.992, 0.997, 1.009, 1.008, 0.988, 0.991, 0.98, 0.984, 0.996, 0.989, 0.996, 1.001, 1.013, 1.017, 1.02, 1.018, 1.024, 1.019, 1.024, 1.021, 1.02, 1.022, 1.013, 1.012, 1.014, 1.004, 1.01, 1.015, 1.026, 1.011, 1.027, 1.027, 1.03, 1.027, 1.031, 1.036, 1.03, 1.028, 1.029, 1.031, 1.029, 1.025, 1.031, 1.031, 1.037, 1.033, 1.03, 1.034, 1.04, 1.038, 1.042, 1.036, 1.035, 1.031, 1.033, 1.029, 1.037, 1.027, 1.03, 1.022, 1.032, 1.032, 1.029, 1.011, 1.003, 0.999, 1.002, 0.998, 0.986, 0.98, 0.979, 0.97, 0.969, 0.947, 0.936, 0.911, 0.928, 0.931, 0.927, 0.92, 0.916, 0.871, 0.839, 0.819, 0.792, 0.751, 0.752, 0.738, 0.76, 0.779, 0.677, 0.661, 0.673, 0.667, 0.706, 0.756, 0.787, 0.919, 0.89, 0.907, 0.917, 0.92, 0.929, 0.93, 0.952, 0.952, 0.95, 0.95, 0.957, 0.958, 0.968, 0.967, 0.968, 0.966, 0.972, 0.967, 0.97, 0.985, 0.981, 0.983, 0.989, 0.99, 0.99, 0.99, 0.983, 0.994, 0.988, 0.997, 0.994, 0.996, 1.003, 0.994, 0.998, 0.996, 1.001, 0.997, 0.997, 1.0, 0.999, 1.001, 0.99, 0.997, 1.009, 0.997, 1.007, 0.998, 1.004, 1.004, 0.997, 1.008, 0.999, 1.0, 0.998, 0.998, 0.999, 1.0, 1.001, 1.0, 1.004, 0.999, 0.995, 0.999, 0.996, 1.0, 1.001, 1.0, 0.997, 1.003, 0.994, 0.999, 1.001, 1.003, 1.002, 0.999, 0.999, 0.999, 1.001, 1.001, 0.999], "bad": [false, false, false, false, false, false, false, false, false, false, false, false, false, false, false, false, false, false, false, false, false, false, false, false, false, false, false, false, false, false, false, false, false, false, false, false, false, false, false, false, false, false, false, false, false, false, false, false, false, false, false, false, false, false, false, false, false, false, false, false, false, false, false, false, false, false, false, false, false, false, false, true, true, true, true, true, true, true, true, true, true, true, true, true, true, true, true, true, true, true, true, true, true, true, true, true, true, true, true, true, true, true, true, true, true, true, true, true, true, true, true, true, false, false, false, false, false, false, false, false, false, false, false, false, false, false, false, false, false, false, false, false, false, false, false, false, false, true, true, true, true, true, true, true, true, true, true, false, false, false, false, false, false, false, false, false, false, false, false, false, false, false, false, false, false, false, false, false, false, false, false, false, false, false, false, false, false, false, false, false]}, "blink_stats": {"frames": 14400, "untrusted": 1287, "runs": 86, "longest_s": 0.9}, "keypoints_px": {"pupil_top": [51.4, 27.7], "pupil_bottom": [52.5, 71.6], "pupil_left": [29.4, 40.1], "pupil_right": [74.2, 44.9], "eyelid_top": [52.2, 21.7], "eyelid_bottom": [52.5, 78.5], "eye_nasal_corner": [21.5, 35.3], "eye_temporal_corner": [79.4, 45.1]}, "blink_strip_t": [232.77, 233.43, 234.18], "videos": [{"video": 0, "unit": "0_first5minvedio", "mouse": "mouse A", "date": "5-min", "final": true, "plateau_n": 60, "plateau_px": 12.04, "zero": null, "steps": [{"n": 20, "rmse": 12.93, "p90": 23.9, "fail": 4, "conf": 69}, {"n": 40, "rmse": 13.0, "p90": 18.6, "fail": 2, "conf": 81}, {"n": 60, "rmse": 12.04, "p90": 17.0, "fail": 0, "conf": 89}, {"n": 80, "rmse": 13.07, "p90": 19.2, "fail": 2, "conf": 90}, {"n": 100, "rmse": 12.29, "p90": 17.8, "fail": 0, "conf": 93}], "subsets": [{"n": 5, "rmse": 78.53, "p90": 273.8, "fail": 70, "conf": 13, "tag": "05a"}, {"n": 5, "rmse": 81.5, "p90": 144.6, "fail": 72, "conf": 16, "tag": "05b"}, {"n": 10, "rmse": 20.48, "p90": 189.9, "fail": 14, "conf": 44, "tag": "10a"}, {"n": 10, "rmse": 20.84, "p90": 47.1, "fail": 8, "conf": 43, "tag": "10b"}], "jump": [{"n": 20, "pct": 6.8}, {"n": 40, "pct": 3.5}, {"n": 60, "pct": 2.1}, {"n": 80, "pct": 2.8}, {"n": 100, "pct": 2.1}], "labeled": 100, "carried": 100}, {"video": 1, "unit": "1_20251031_Pluto_spont_1", "mouse": "Pluto", "date": "2025-10-31", "final": true, "plateau_n": 20, "plateau_px": 10.37, "zero": 208.23, "steps": [{"n": 20, "rmse": 10.37, "p90": 21.6, "fail": 4, "conf": 59}, {"n": 40, "rmse": 12.17, "p90": 20.3, "fail": 0, "conf": 75}, {"n": 60, "rmse": 11.35, "p90": 19.7, "fail": 2, "conf": 74}, {"n": 80, "rmse": 11.59, "p90": 19.8, "fail": 0, "conf": 82}, {"n": 100, "rmse": 10.94, "p90": 19.3, "fail": 0, "conf": 89}, {"n": 120, "rmse": 11.7, "p90": 18.4, "fail": 0, "conf": 95}, {"n": 140, "rmse": 12.09, "p90": 18.7, "fail": 0, "conf": 89}], "subsets": [{"n": 5, "rmse": 96.02, "p90": 123.4, "fail": 56, "conf": 34, "tag": "05a"}, {"n": 5, "rmse": 41.38, "p90": 221.9, "fail": 48, "conf": 15, "tag": "05b"}, {"n": 10, "rmse": 20.17, "p90": 123.5, "fail": 42, "conf": 67, "tag": "10a"}, {"n": 10, "rmse": 16.12, "p90": 168.5, "fail": 34, "conf": 39, "tag": "10b"}], "jump": [{"n": 20, "pct": 21.1}, {"n": 40, "pct": 10.9}, {"n": 60, "pct": 6.2}, {"n": 80, "pct": 6.2}, {"n": 100, "pct": 5.5}, {"n": 120, "pct": 4.4}, {"n": 140, "pct": 4.6}], "labeled": 140, "carried": 100}, {"video": 2, "unit": "2_20251031_Pluto_spont_3", "mouse": "Pluto", "date": "2025-10-31", "final": true, "plateau_n": 20, "plateau_px": 7.73, "zero": 9.99, "steps": [{"n": 20, "rmse": 7.73, "p90": 26.4, "fail": 8, "conf": 85}, {"n": 40, "rmse": 7.57, "p90": 25.1, "fail": 2, "conf": 89}, {"n": 60, "rmse": 7.83, "p90": 22.8, "fail": 8, "conf": 90}, {"n": 80, "rmse": 7.56, "p90": 19.7, "fail": 2, "conf": 92}], "subsets": [{"n": 5, "rmse": 8.22, "p90": 48.0, "fail": 10, "conf": 80, "tag": "05a"}, {"n": 5, "rmse": 11.5, "p90": 96.6, "fail": 18, "conf": 81, "tag": "05b"}, {"n": 10, "rmse": 10.46, "p90": 85.2, "fail": 22, "conf": 84, "tag": "10a"}, {"n": 10, "rmse": 9.85, "p90": 78.4, "fail": 12, "conf": 86, "tag": "10b"}], "jump": [{"n": 20, "pct": 9.3}, {"n": 40, "pct": 5.8}, {"n": 60, "pct": 5.7}], "labeled": 80, "carried": 60}, {"video": 3, "unit": "3_20251031_Pluto_spont_2", "mouse": "Pluto", "date": "2025-10-31", "final": true, "plateau_n": 20, "plateau_px": 3.4, "zero": 4.43, "steps": [{"n": 20, "rmse": 3.4, "p90": 21.3, "fail": 0, "conf": 96}, {"n": 40, "rmse": 3.87, "p90": 15.8, "fail": 0, "conf": 95}, {"n": 60, "rmse": 3.63, "p90": 10.2, "fail": 0, "conf": 96}], "subsets": [{"n": 5, "rmse": 3.82, "p90": 22.9, "fail": 0, "conf": 94, "tag": "05a"}, {"n": 5, "rmse": 3.91, "p90": 15.3, "fail": 0, "conf": 92, "tag": "05b"}, {"n": 10, "rmse": 3.81, "p90": 21.7, "fail": 0, "conf": 94, "tag": "10a"}, {"n": 10, "rmse": 3.48, "p90": 22.5, "fail": 0, "conf": 92, "tag": "10b"}], "jump": [{"n": 20, "pct": 6.4}, {"n": 40, "pct": 5.8}, {"n": 60, "pct": 6.8}], "labeled": 60, "carried": 60}, {"video": 4, "unit": "4_20251030_Pluto_spont_1", "mouse": "Pluto", "date": "2025-10-30", "final": true, "plateau_n": 40, "plateau_px": 15.01, "zero": 32.11, "steps": [{"n": 20, "rmse": 24.64, "p90": 45.1, "fail": 6, "conf": 72}, {"n": 40, "rmse": 15.01, "p90": 24.1, "fail": 2, "conf": 90}, {"n": 60, "rmse": 16.82, "p90": 25.1, "fail": 2, "conf": 79}, {"n": 80, "rmse": 17.54, "p90": 44.7, "fail": 8, "conf": 86}], "subsets": [{"n": 5, "rmse": 30.74, "p90": 50.1, "fail": 10, "conf": 85, "tag": "05a"}, {"n": 5, "rmse": 32.21, "p90": 52.0, "fail": 14, "conf": 83, "tag": "05b"}, {"n": 10, "rmse": 45.31, "p90": 62.4, "fail": 42, "conf": 81, "tag": "10a"}, {"n": 10, "rmse": 44.75, "p90": 61.5, "fail": 32, "conf": 80, "tag": "10b"}], "jump": [{"n": 20, "pct": 30.9}, {"n": 40, "pct": 12.5}, {"n": 60, "pct": 14.1}], "labeled": 80, "carried": 40}, {"video": 5, "unit": "5_20251029_Pluto_spont_1", "mouse": "Pluto", "date": "2025-10-29", "final": true, "plateau_n": 20, "plateau_px": 15.85, "zero": 11.9, "steps": [{"n": 20, "rmse": 15.85, "p90": 20.2, "fail": 0, "conf": 90}, {"n": 40, "rmse": 16.58, "p90": 22.0, "fail": 0, "conf": 91}], "subsets": [{"n": 5, "rmse": 13.04, "p90": 19.9, "fail": 0, "conf": 79, "tag": "05a"}, {"n": 5, "rmse": 9.42, "p90": 13.2, "fail": 4, "conf": 78, "tag": "05b"}, {"n": 10, "rmse": 12.56, "p90": 18.1, "fail": 0, "conf": 90, "tag": "10a"}, {"n": 10, "rmse": 12.73, "p90": 19.6, "fail": 4, "conf": 80, "tag": "10b"}], "jump": [{"n": 20, "pct": 7.6}], "labeled": 40, "carried": 20}, {"video": 6, "unit": "6_20251028_Pluto_spont_1", "mouse": "Pluto", "date": "2025-10-28", "final": true, "plateau_n": 20, "plateau_px": 6.75, "zero": 9.36, "steps": [{"n": 20, "rmse": 6.75, "p90": 11.2, "fail": 0, "conf": 83}, {"n": 40, "rmse": 8.46, "p90": 11.8, "fail": 0, "conf": 90}, {"n": 60, "rmse": 10.68, "p90": 14.9, "fail": 2, "conf": 82}], "subsets": [], "jump": [{"n": 20, "pct": 11.9}, {"n": 40, "pct": 8.7}], "labeled": 60, "carried": 20}, {"video": 7, "unit": "7_20251027_Pluto_spont1", "mouse": "Pluto", "date": "2025-10-27", "final": true, "plateau_n": 0, "plateau_px": 5.36, "zero": 5.36, "steps": [{"n": 20, "rmse": 5.86, "p90": 7.6, "fail": 0, "conf": 100}, {"n": 40, "rmse": 5.84, "p90": 8.2, "fail": 0, "conf": 100}], "subsets": [], "jump": [{"n": 20, "pct": 1.6}], "labeled": 40, "carried": 0}, {"video": 8, "unit": "8_20251024_Pluto_spont1", "mouse": "Pluto", "date": "2025-10-24", "final": true, "plateau_n": 20, "plateau_px": 25.34, "zero": 27.46, "steps": [{"n": 20, "rmse": 25.34, "p90": 50.6, "fail": 14, "conf": 68}, {"n": 40, "rmse": 30.03, "p90": 50.4, "fail": 12, "conf": 89}, {"n": 60, "rmse": 33.77, "p90": 52.0, "fail": 16, "conf": 84}], "subsets": [{"n": 5, "rmse": 31.05, "p90": 192.4, "fail": 30, "conf": 68, "tag": "05a"}, {"n": 5, "rmse": 31.48, "p90": 196.4, "fail": 28, "conf": 59, "tag": "05b"}, {"n": 10, "rmse": 23.48, "p90": 50.8, "fail": 12, "conf": 71, "tag": "10a"}, {"n": 10, "rmse": 22.42, "p90": 45.8, "fail": 6, "conf": 74, "tag": "10b"}], "jump": [{"n": 20, "pct": 17.0}, {"n": 40, "pct": 15.3}], "labeled": 60, "carried": 20}, {"video": 9, "unit": "9_20251023_Pluto1", "mouse": "Pluto", "date": "2025-10-23", "final": true, "plateau_n": 80, "plateau_px": 8.2, "zero": 23.41, "steps": [{"n": 20, "rmse": 10.39, "p90": 24.3, "fail": 8, "conf": 55}, {"n": 40, "rmse": 8.55, "p90": 19.6, "fail": 0, "conf": 86}, {"n": 60, "rmse": 8.67, "p90": 14.8, "fail": 0, "conf": 78}, {"n": 80, "rmse": 8.2, "p90": 14.8, "fail": 0, "conf": 86}, {"n": 100, "rmse": 9.39, "p90": 15.5, "fail": 0, "conf": 83}, {"n": 120, "rmse": 8.63, "p90": 15.8, "fail": 0, "conf": 90}], "subsets": [{"n": 5, "rmse": 11.74, "p90": 23.2, "fail": 6, "conf": 69, "tag": "05a"}, {"n": 5, "rmse": 12.62, "p90": 20.9, "fail": 8, "conf": 80, "tag": "05b"}, {"n": 10, "rmse": 11.55, "p90": 19.1, "fail": 0, "conf": 62, "tag": "10a"}, {"n": 10, "rmse": 11.07, "p90": 23.8, "fail": 0, "conf": 66, "tag": "10b"}], "jump": [{"n": 20, "pct": 18.1}, {"n": 40, "pct": 11.3}, {"n": 60, "pct": 10.1}, {"n": 80, "pct": 10.7}, {"n": 100, "pct": 9.1}, {"n": 120, "pct": 8.3}], "labeled": 120, "carried": 80}, {"video": 10, "unit": "10_20251022_Pluto1", "mouse": "Pluto", "date": "2025-10-22", "final": false, "plateau_n": 40, "plateau_px": 10.32, "zero": 18.13, "steps": [{"n": 20, "rmse": 11.83, "p90": 27.7, "fail": 2, "conf": 72}, {"n": 40, "rmse": 10.32, "p90": 26.1, "fail": 4, "conf": 92}], "subsets": [], "jump": [{"n": 20, "pct": 15.8}, {"n": 40, "pct": 11.9}], "labeled": 40, "carried": null}], "area": [{"video": "0 (mouse A)", "e3": 6.5, "e4": 2.2, "anchored": false}, {"video": "1 (10-31)", "e3": 6.7, "e4": 6.2, "anchored": false}, {"video": "2 (10-31)", "e3": 3.1, "e4": 4.4, "anchored": false}, {"video": "3 (10-31)", "e3": 12.8, "e4": 3.2, "anchored": false}, {"video": "4 (10-30, poor)", "e3": 16.9, "e4": 13.5, "anchored": false}, {"video": "5 (10-29)", "e3": 2.5, "e4": 1.9, "anchored": true}, {"video": "6 (10-28)", "e3": 9.9, "e4": 1.6, "anchored": true}, {"video": "7 (10-27)", "e3": 3.3, "e4": 0.2, "anchored": true}], "blink3": {"closed": 16, "open": 687, "auc": {"min_conf": 1.0, "open_rel": 0.94, "centre_off": 0.92, "lid_rel": 0.9, "aspect": 0.36}, "hit": 1.0, "false_alarm": 0.55}, "coupling": [0.69, 0.94], "built": "2026-10-02", "label_px": {"pupil_top": [66.7, 44.4], "pupil_bottom": [66.2, 79.4], "pupil_left": [50.1, 60.1], "pupil_right": [81.1, 63.6], "eyelid_top": [67.6, 47.1], "eyelid_bottom": [65.9, 83.7], "eye_nasal_corner": [39.4, 51.3], "eye_temporal_corner": [90.4, 65.2]}};
 (function(){
   var root=document.documentElement, L='zh';
   try{var s=localStorage.getItem('report-lang'); if(s==='en'||s==='zh') L=s;}catch(e){}

diff --git a/v2_new_pupil_top_video_scaling/results/README.md b/v2_new_pupil_top_video_scaling/results/README.md
@@ -211,11 +211,12 @@ time (earlier videos only, never later ones), same recipe, same frozen test set 
 | 4 (poor quality, v2 labels) | 32.11 (22%) | 30.7 / 32.2 (10% / 14%) | 45.3 / 44.8 (42% / 32%) | 24.64 (6%) |
 | 5 (v2 labels) | 11.90 (12%) | 13.0 / 9.4 (0% / 4%) | 12.6 / 12.7 (0% / 4%) | 15.85 (0%) |
 | 8 (v2 labels; added 2026-10-02) | 27.46 (14%) | 31.1 / 31.5 (30% / 28%) | 23.5 / 22.4 (12% / 6%) | 25.34 (14%) |
+| 9 (v2 labels; added 2026-10-02) | 23.41 (8%) | 11.7 / 12.6 (6% / 8%) | 11.6 / 11.1 (0% / 0%) | 10.39 (8%) |
 
 - 5 labels were enough on 2 of 6 videos (3 and 5), both of which the earlier videos already covered well.
 - On the other 4, 5 and 10 labels fall short of 20: the first video of a mouse (0, 1) improves steadily with labels,
   video 2 does not improve on 0 labels until 20, and on video 4 10 labels are worse than none (both subsets agree;
   not explained yet).
-- 2026-10-02: the study is being extended to videos 6-10 and to every later video (subset models use shuffles 2000 + 10 * video + 1..4, trained while the main line is idle). Video 8, a hard day: 5 labels are worse than none, 10 labels are at least as good as 20.
+- 2026-10-02: the study is being extended to videos 6-10 and to every later video (subset models use shuffles 2000 + 10 * video + 1..4, trained while the main line is idle). Video 8, a hard day: 5 labels are worse than none, 10 labels are at least as good as 20. Video 9: 5 labels already halve the error (23.4 -> about 12 px); 10 and 20 labels add about 1 px each.
 - Two subsets of the same size can differ a lot (video 1: 96 vs 41 px at 5 labels), so a single small batch is
   unreliable. 20 labels was the smallest size that worked on every video.

diff --git a/v2_new_pupil_top_video_scaling/9_20251023_Pluto1/results/README.md b/v2_new_pupil_top_video_scaling/9_20251023_Pluto1/results/README.md
@@ -19,3 +19,17 @@ contributed none); shuffles 1011, 1012, ...
 **Plateau rule fired at step 6 (2026-10-01):** neither 100 labels (9.39 px) nor 120 labels (8.63 px) improved the running best of 8.20 px (80 labels) by more than 3%, so by the rule the plateau point is **80 labels, 8.20 px**. From 40 to 120 labels the median stays between 8.2 and 9.4 px.
 
 **Finished at 80 labels, 8.20 px (user decision 2026-10-01).** Batches 01-04 (80 labels) are carried into later videos; batches 05-06 stay on disk and are not used by later videos. Batch07 was selected (sheet `selection_sheets/selection_140_frames.png`) but not labeled.
+
+**Fewer-labels study (2026-10-02)**: step 1 retrained with 5 or 10 of batch01's 20 labels (two subsets each, training
+set otherwise as at the time: videos 0-3 + 40 of video 4 + 20 each of videos 5, 6 and 8; shuffles 2091-2094) ->
+`fewer_labels.png` / `fewer_labels.csv`.
+
+| labels of this video | median | p90 | frames > 50 px |
+|---|---|---|---|
+| 0 | 23.41 px | 41.4 | 8% |
+| 5 (subset a / b) | 11.74 / 12.62 px | 23.2 / 20.9 | 6% / 8% |
+| 10 (subset a / b) | 11.55 / 11.07 px | 19.1 / 23.8 | 0% / 0% |
+| 20 | 10.39 px | 24.3 | 8% |
+
+On this video 5 labels already halve the error (23.4 -> about 12 px); 10 and 20 labels add about 1 px more each
+(11.1-11.6 and 10.4 px), and the two subsets of each size agree within 1 px.
